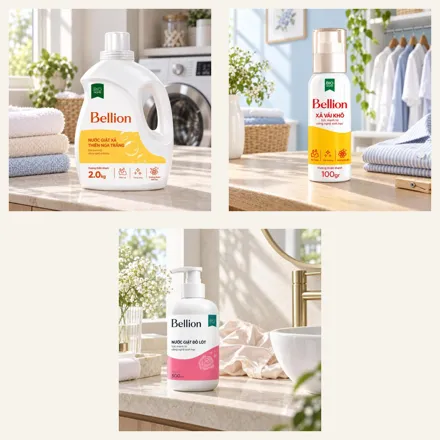
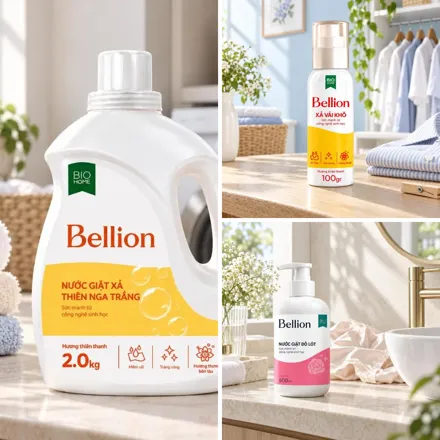
Bellion: sửa nhãn combo bị che, chỉnh giao diện theo thương hiệu
- Khung: nhãn "Tiết kiệm" trên thẻ combo bị ảnh (có filter) che mất một nửa, thêm z-index.
- Khung: client.json nhận theme.custom_css để khách có file CSS riêng, nạp sau store.css.
- Bellion: tiêu đề chữ có chân Playfair Display theo logo, xanh rêu + hồng phấn,
  bỏ mặt trời/tia nắng ở hero, ảnh sản phẩm phủ kín khung, dải cam kết thẳng và nhẹ,
  khối CTV nền xanh; ảnh combo ghép lại phủ kín khung.

Claude-Session: https://claude.ai/code/session_01ReW78p65jqfBeCL68bsfdy

diff --git a/clients/bellion/public/assets/css/client.css b/clients/bellion/public/assets/css/client.css
@@ -1,0 +1,90 @@
+/* Bellion: phong cách sạch, thoáng, nhẹ nhàng cho gia đình trẻ thành thị.
+   Chữ tiêu đề có chân theo logo, nền trắng ngà, xanh rêu + hồng phấn (dòng Baby), bo góc mềm, bóng nhẹ. */
+@import url('https://fonts.googleapis.com/css2?family=Playfair+Display:ital,wght@0,500;0,600;0,700;1,500&display=swap');
+
+:root {
+  --serif: 'Playfair Display', Georgia, serif;
+  --cream-2: #eef2ee; --paper: #ffffff; --line: #e4e8e2; --muted: #66736c;
+  --purple: #1d4a3a; --purple-l: #e5efe9;
+  --shadow: 0 10px 30px -18px rgba(17, 49, 40, .28);
+  --shadow-lg: 0 24px 50px -28px rgba(17, 49, 40, .35);
+  --r: 16px; --r-lg: 22px;
+}
+body { font-weight: 400; }
+
+/* tiêu đề */
+h1, h2 { font-family: var(--serif); font-weight: 600; letter-spacing: -.01em; }
+h1 { font-size: clamp(2.2rem, 5vw, 3.9rem); line-height: 1.08; }
+h2 { font-size: clamp(1.7rem, 3.4vw, 2.6rem); }
+h3 { font-weight: 600; }
+.eyebrow { color: var(--green); letter-spacing: .18em; font-weight: 600; }
+.eyebrow::before { width: 22px; height: 1px; border-radius: 0; background: var(--sun-d); }
+.lead { color: var(--muted); }
+
+/* nút */
+.btn { font-weight: 600; }
+.btn.sun { --bg: var(--green); --fg: #fff; background: var(--green); }
+.btn.sun .shine { display: none; }
+.btn.ghost { border-color: var(--green); color: var(--green); }
+
+/* thanh trên, menu */
+.topbar { background: var(--green-d); color: #e9f0ec; font-size: .82rem; }
+.nav a { font-weight: 500; }
+.nav a.nav-flash { color: var(--sun-d); }
+
+/* hero: bỏ mặt trời, tia nắng; ảnh sản phẩm bo góc như bộ sưu tập */
+.hero { background: linear-gradient(180deg, #fff 0%, var(--cream) 100%); }
+.hero h1 .split-word { margin-right: 0; }
+.stage .rays, .stage .sun, .stage .hill, .stage .slice { display: none; }
+.stage::before { content: ''; position: absolute; inset: 10% 6% 12% 10%; border-radius: 48% 52% 46% 54% / 55% 45% 55% 45%; background: radial-gradient(circle at 35% 35%, var(--sun-l), var(--green-l) 70%); }
+.stage .pack { filter: none; }
+.stage .pack img { border-radius: 20px; box-shadow: 0 24px 40px -22px rgba(17, 49, 40, .45); border: 6px solid #fff; }
+.stage .price-tag { background: #fff; color: var(--ink); border: 1px solid var(--line); }
+.stage .price-tag b { color: var(--green); }
+.chip { background: rgba(255,255,255,.8); font-weight: 500; }
+.chip svg { color: var(--sun-d) !important; }
+
+/* dải cam kết: thẳng, nhẹ */
+.promise { transform: none; margin: 0; background: var(--green-l); color: var(--green-d); padding: 14px 0; border-block: 1px solid var(--line); }
+.promise .track { font-weight: 600; font-size: clamp(.95rem, 1.6vw, 1.15rem); letter-spacing: .02em; }
+.promise .track span::after { content: '·'; color: var(--sun-d); }
+
+/* chân dung khách */
+.persona-btn { font-weight: 600; border-width: 1px; }
+.persona-btn.on { background: var(--green); border-color: var(--green); }
+.persona-btn.on .ico { background: var(--sun-l); }
+.persona-card { background: var(--green-d); }
+.persona-card::before { background: radial-gradient(circle, var(--sun), transparent 70%); opacity: .25; }
+.persona-card .who { color: var(--sun); }
+
+/* thẻ sản phẩm: ảnh phủ kín khung, không viền kem */
+.card { border-radius: var(--r-lg); padding: 10px 10px 16px; box-shadow: none; }
+.card .media { background: var(--cream-2); border-radius: 16px; }
+.card .media img { width: 100%; height: 100%; object-fit: cover; filter: none; }
+.card:hover .media img { transform: scale(1.04); }
+.card h3 { font-weight: 600; }
+.badge { background: var(--sun-l); color: #9a5340; font-weight: 700; }
+.badge.red { background: var(--sun-d); color: #fff; }
+
+/* combo */
+.combo-card { border-radius: var(--r-lg); }
+.combo-card .media { background: var(--cream-2); padding: 0; place-items: stretch; }
+.combo-card .media img { width: 100%; height: 100%; max-height: none; object-fit: cover; filter: none; }
+.combo-card .media .badge { top: 12px !important; left: 12px !important; }
+
+/* kênh CTV */
+.ctv-band { background: linear-gradient(135deg, var(--green-d), var(--green)); color: #eef4f0; }
+.ctv-band .eyebrow { color: var(--sun) !important; }
+.ctv-band h2, .ctv-band p { color: #fff; }
+.ctv-band::after { border-color: rgba(255,255,255,.08); }
+.ctv-band .levels span { background: rgba(255,255,255,.12); color: #eef4f0; }
+.ctv-band .btn { --bg: #fff; --fg: var(--green-d); background: #fff; color: var(--green-d); }
+.tier { background: #fff; }
+.tier b { font-family: var(--serif); font-weight: 600; color: var(--green); }
+
+/* chân trang */
+footer p[style*="serif"], .footer p[style*="serif"] { color: var(--sun) !important; }
+
+/* trang sản phẩm: ảnh phủ kín khung */
+.pdp .main-img { background: var(--cream-2); }
+.pdp .main-img img { width: 100%; height: 100%; object-fit: cover; filter: none; }

diff --git a/public/assets/css/store.css b/public/assets/css/store.css
@@ -288,6 +288,7 @@ section { position: relative; }
 .combo-card:hover { transform: translateY(-6px); box-shadow: var(--shadow-lg); }
 .combo-card .media { background: radial-gradient(circle at 50% 55%, #fff, var(--sun-l)); display: grid; place-items: center; padding: 18px; position: relative; }
 .combo-card .media img { width: 100%; max-height: 240px; object-fit: contain; filter: drop-shadow(0 18px 18px rgba(0,0,0,.18)); }
+.combo-card .media .badge { z-index: 2; }
 .combo-card .body { padding: 24px; display: flex; flex-direction: column; }
 .combo-card .items { font-size: .86rem; color: var(--muted); margin: 6px 0 14px; padding-left: 18px; }
 .combo-grid { display: grid; grid-template-columns: repeat(2, 1fr); gap: 22px; }
